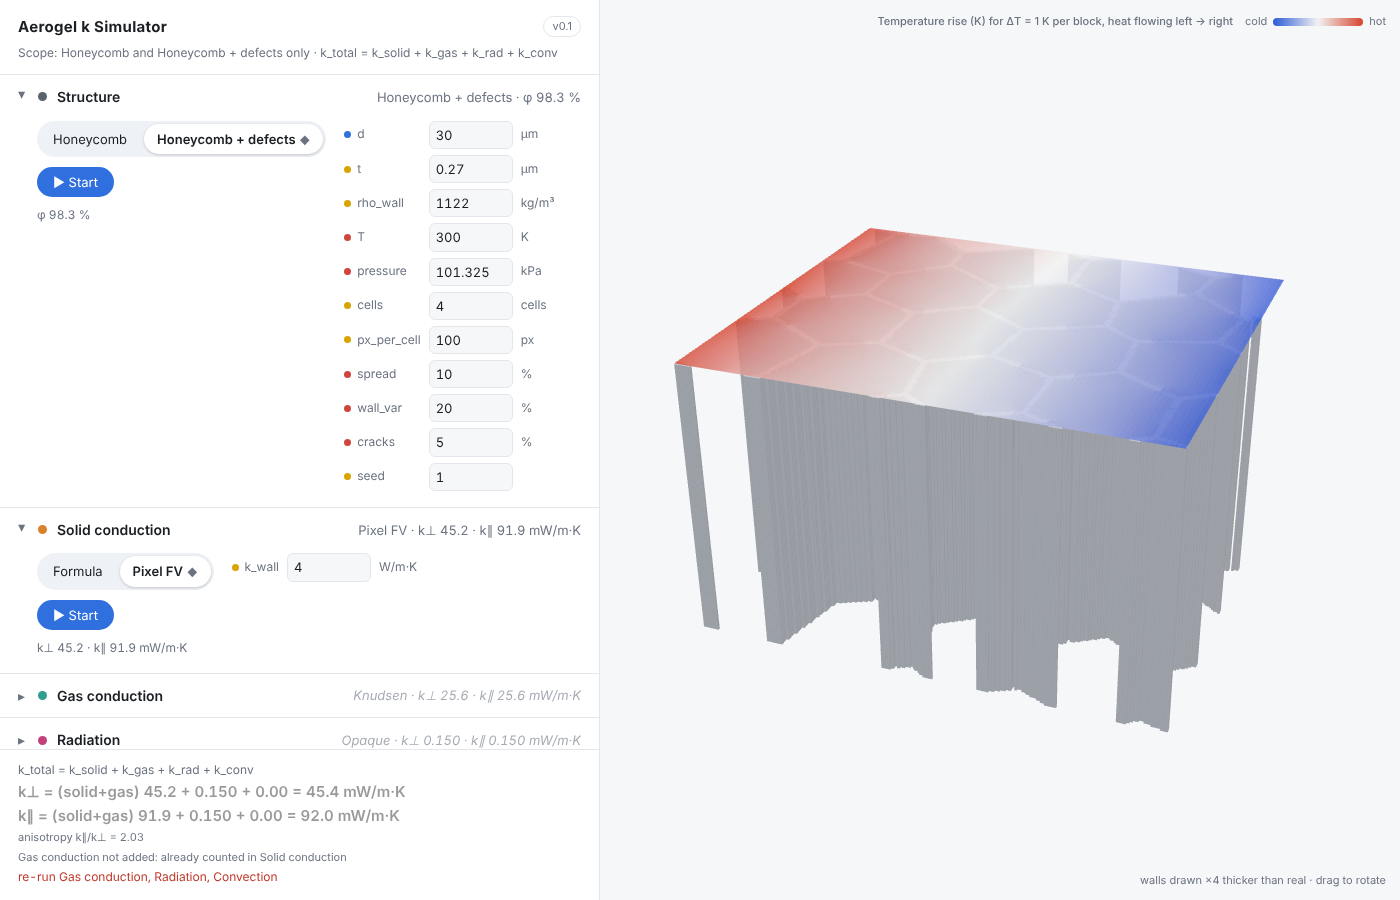
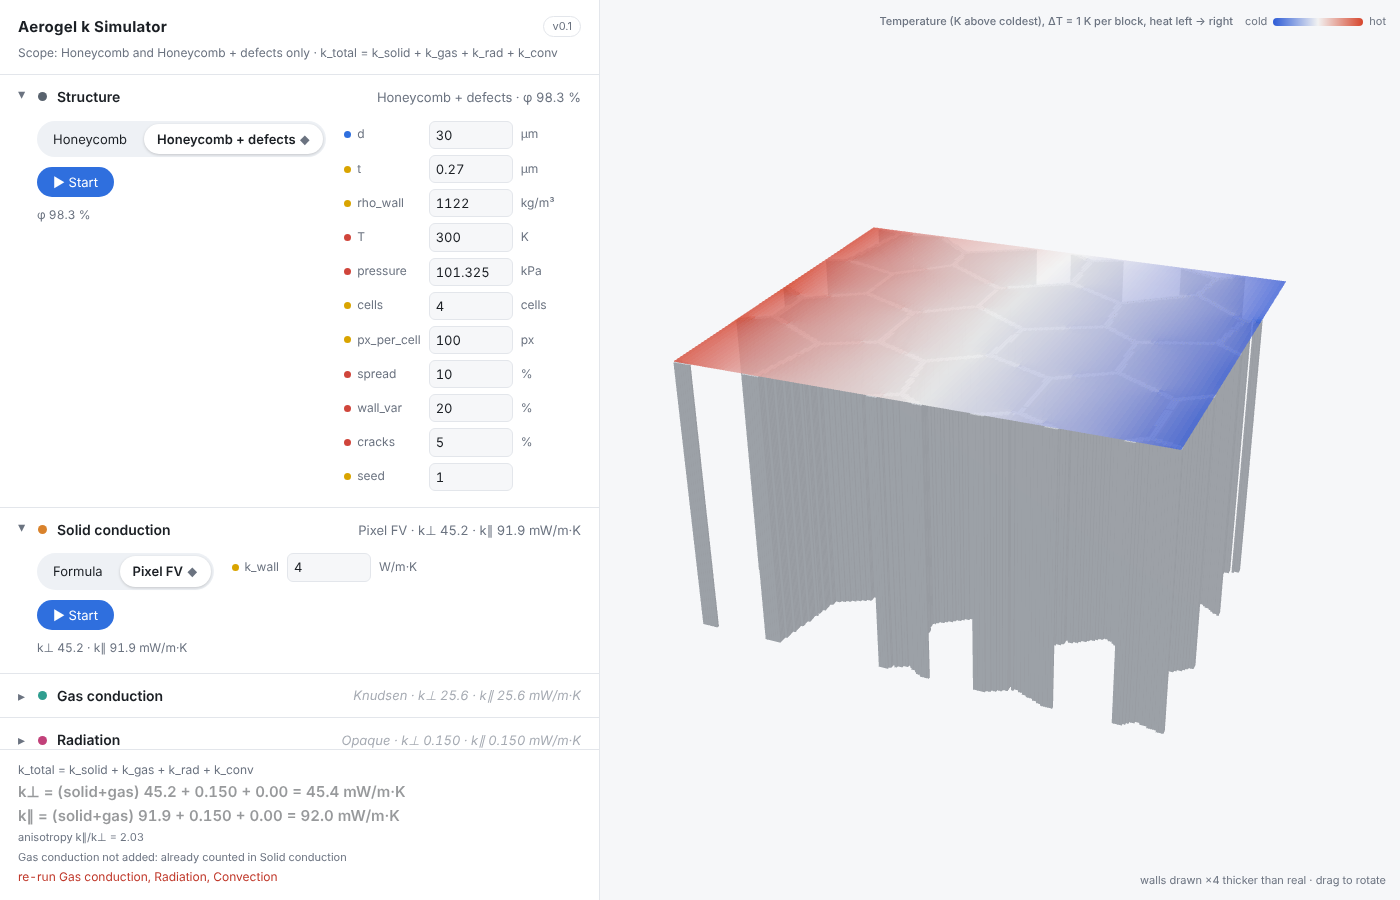
Tidy pixel FV field label; keep ruff to the simulator code
Claude-Session: https://claude.ai/code/session_0143oVsGXh4V8fwmnWfhskgN

diff --git a/aerosim/solid/pixel_fv.py b/aerosim/solid/pixel_fv.py
@@ -48,7 +48,9 @@ def solve(k):
         cols += [i, j, j, i]
         vals += [g, g, -g, -g]
     # one link from pixel 0 to 0 K fixes the arbitrary temperature level; it carries no heat
-    rows.append([0]), cols.append([0]), vals.append([k.mean()])
+    rows.append([0])
+    cols.append([0])
+    vals.append([k.mean()])
     A = coo_matrix((np.concatenate(vals), (np.concatenate(rows), np.concatenate(cols)))).tocsr()
     b = np.zeros(nx * ny)
     g_jump = gx[:, -1]  # links from the last column to the first column of the next copy
@@ -91,7 +93,7 @@ def run(structure, inputs, conditions):
             "covers solid + gas together: the Gas row is not added again",
         ],
         "field": {
-            "name": "Temperature rise (K) for ΔT = 1 K per block, heat flowing left → right",
+            "name": "Temperature (K above coldest), ΔT = 1 K per block, heat left → right",
             "values": T[::stride, ::stride].round(3).tolist(),
             "low": "cold",
             "high": "hot",
